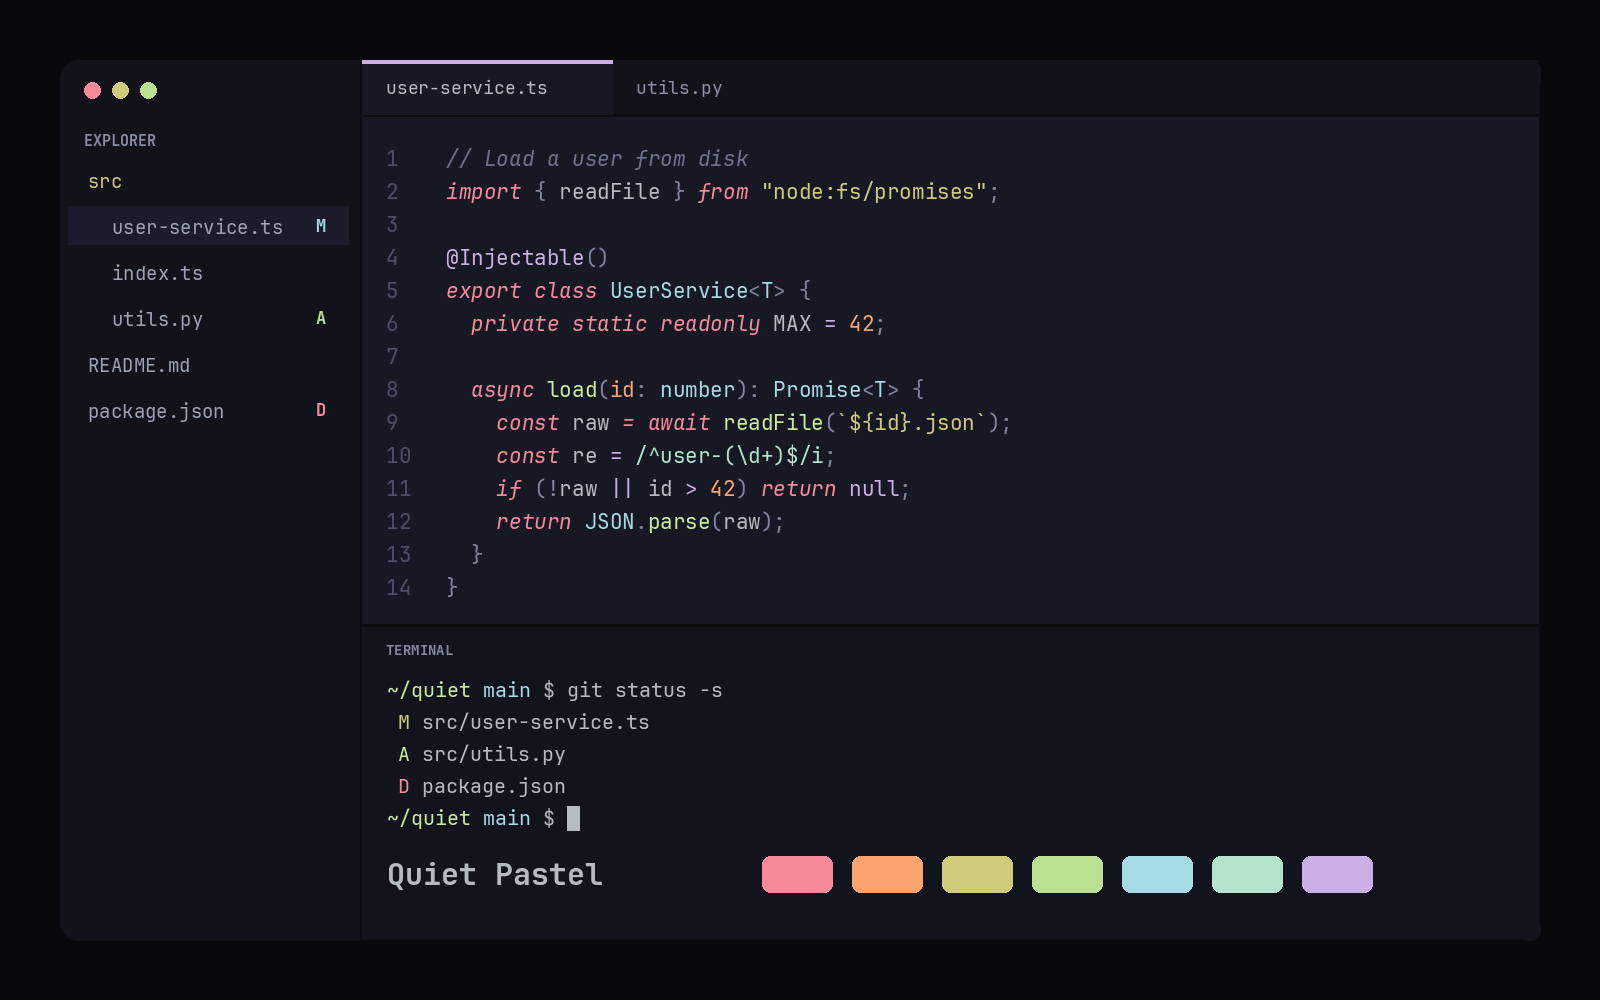
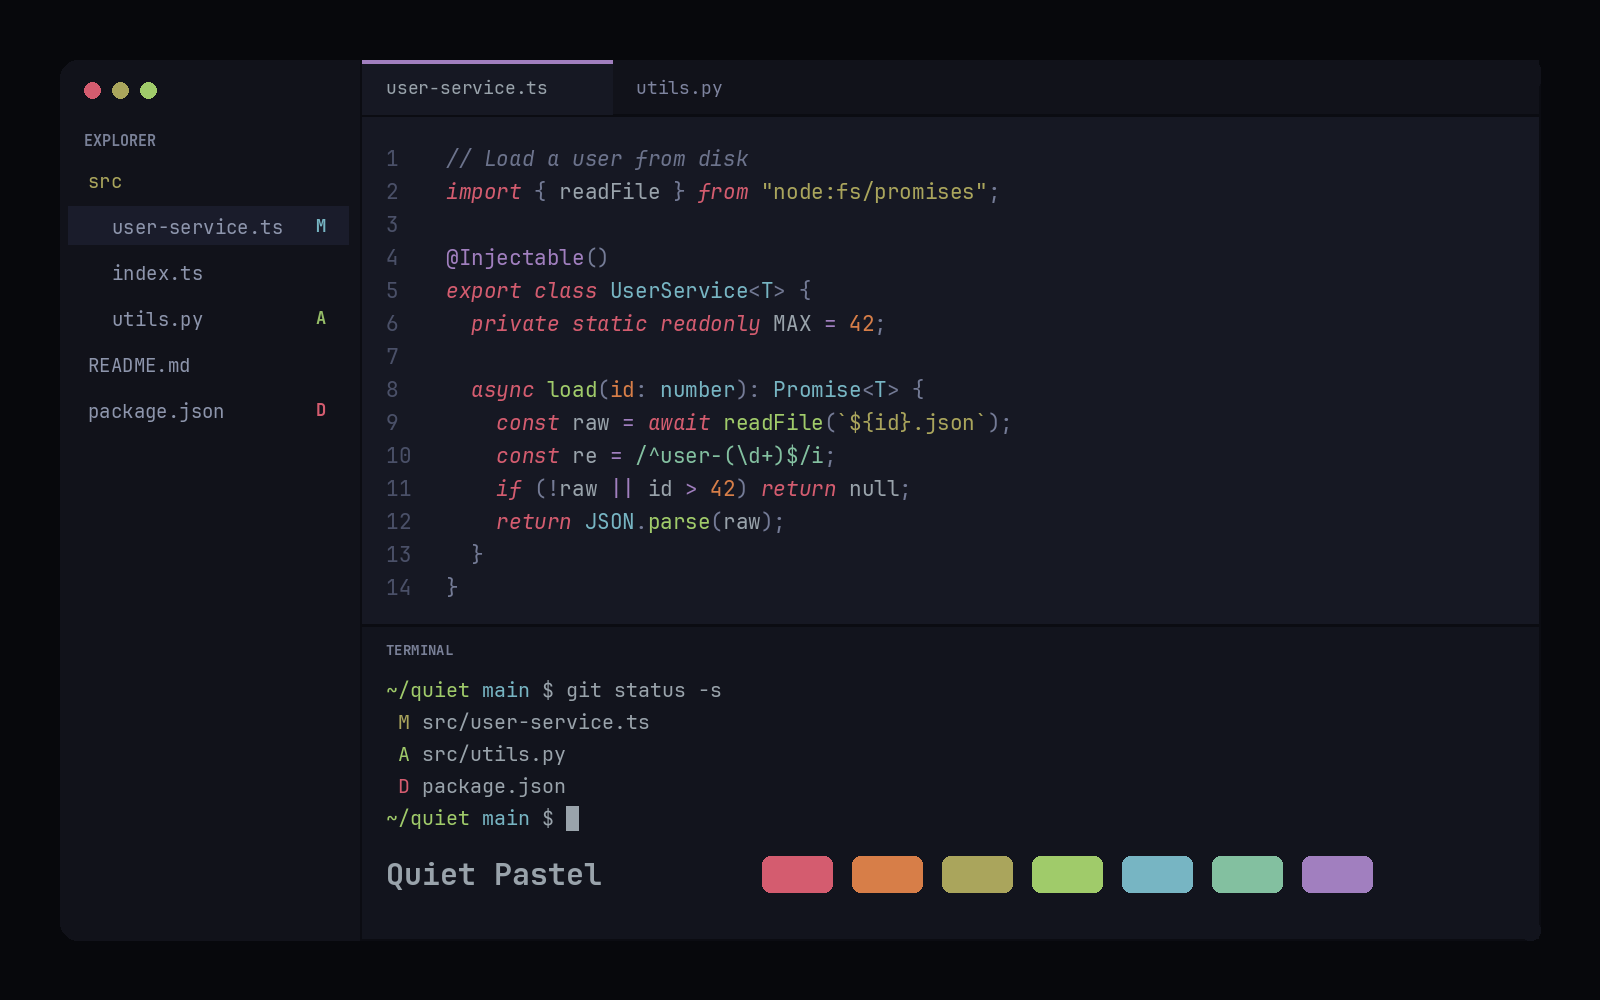
Release 1.0.1: dimmer palette
Soften the pastel accents and text for a quieter look; backgrounds and
comment color are unchanged.

diff --git a/README.md b/README.md
@@ -24,17 +24,17 @@ To try a local copy, open **Settings → Plugins → Development folders…** an
 | --- | --- |
 | Editor background | `#161823` |
 | Sidebar and tabs | `#11121a` |
-| Text | `#b4bcc2` |
-| Accent | `#cbaee3` |
-| Operators | `#cbaee3` |
-| Links | `#aab8f2` |
-| Types | `#a6dbe6` |
-| Pink and red | `#f68a9b` |
-| Orange | `#fba46f` |
-| Yellow | `#cfca7c` |
-| Functions | `#c8ee98` |
-| Git added | `#bbe08f` |
-| Aqua | `#b3e4cb` |
+| Text | `#99a3ab` |
+| Accent | `#a17fbf` |
+| Operators | `#a17fbf` |
+| Links | `#7587d1` |
+| Types | `#77b5c3` |
+| Pink and red | `#d45c6f` |
+| Orange | `#d77e48` |
+| Yellow | `#aaa55c` |
+| Functions | `#a0cb6a` |
+| Git added | `#95bc67` |
+| Aqua | `#83c0a0` |
 
 ## License
 
